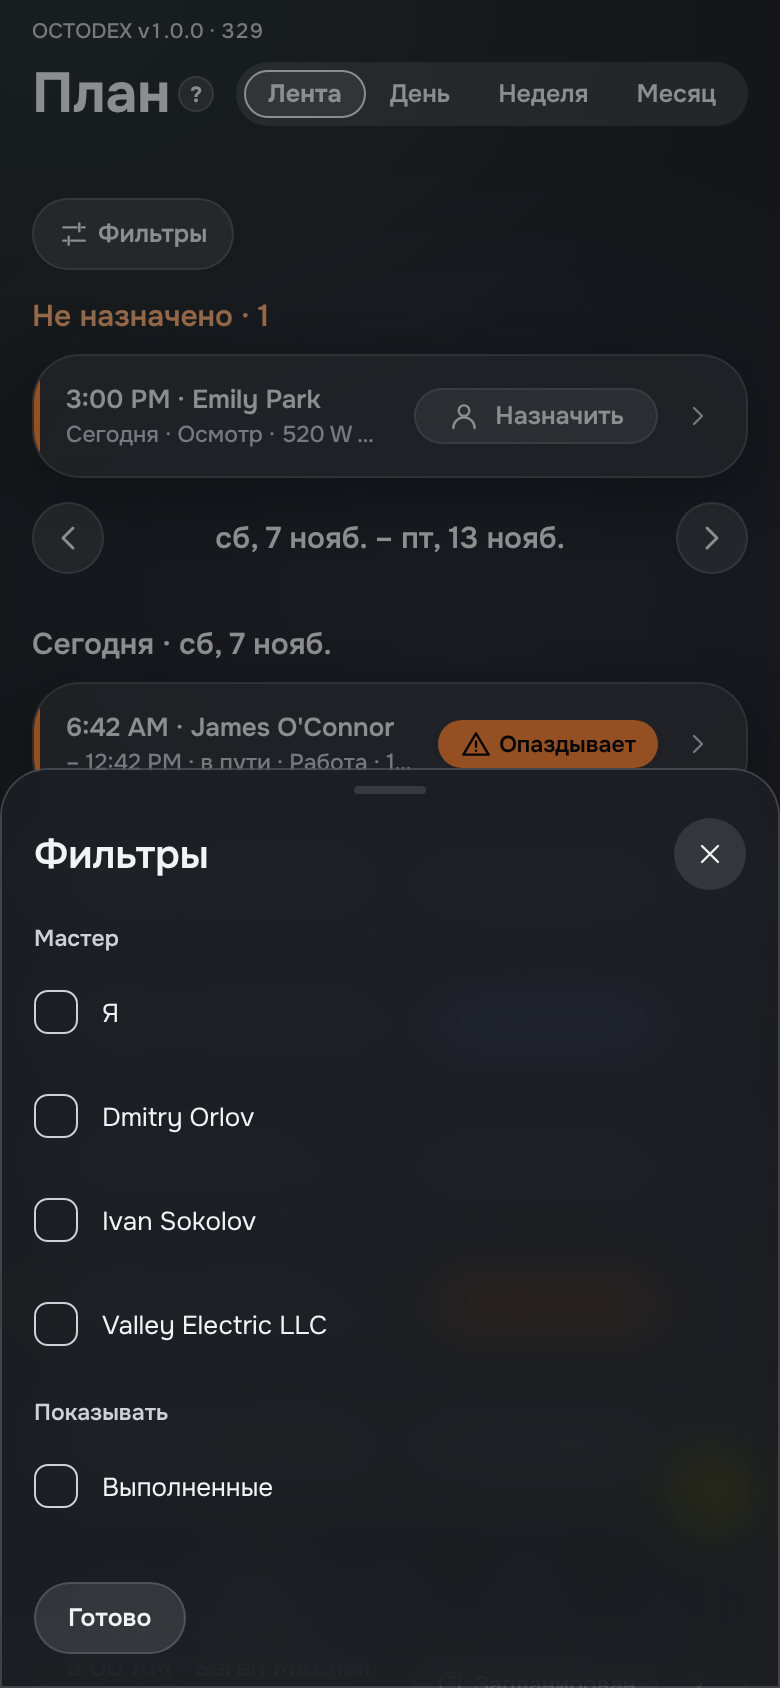
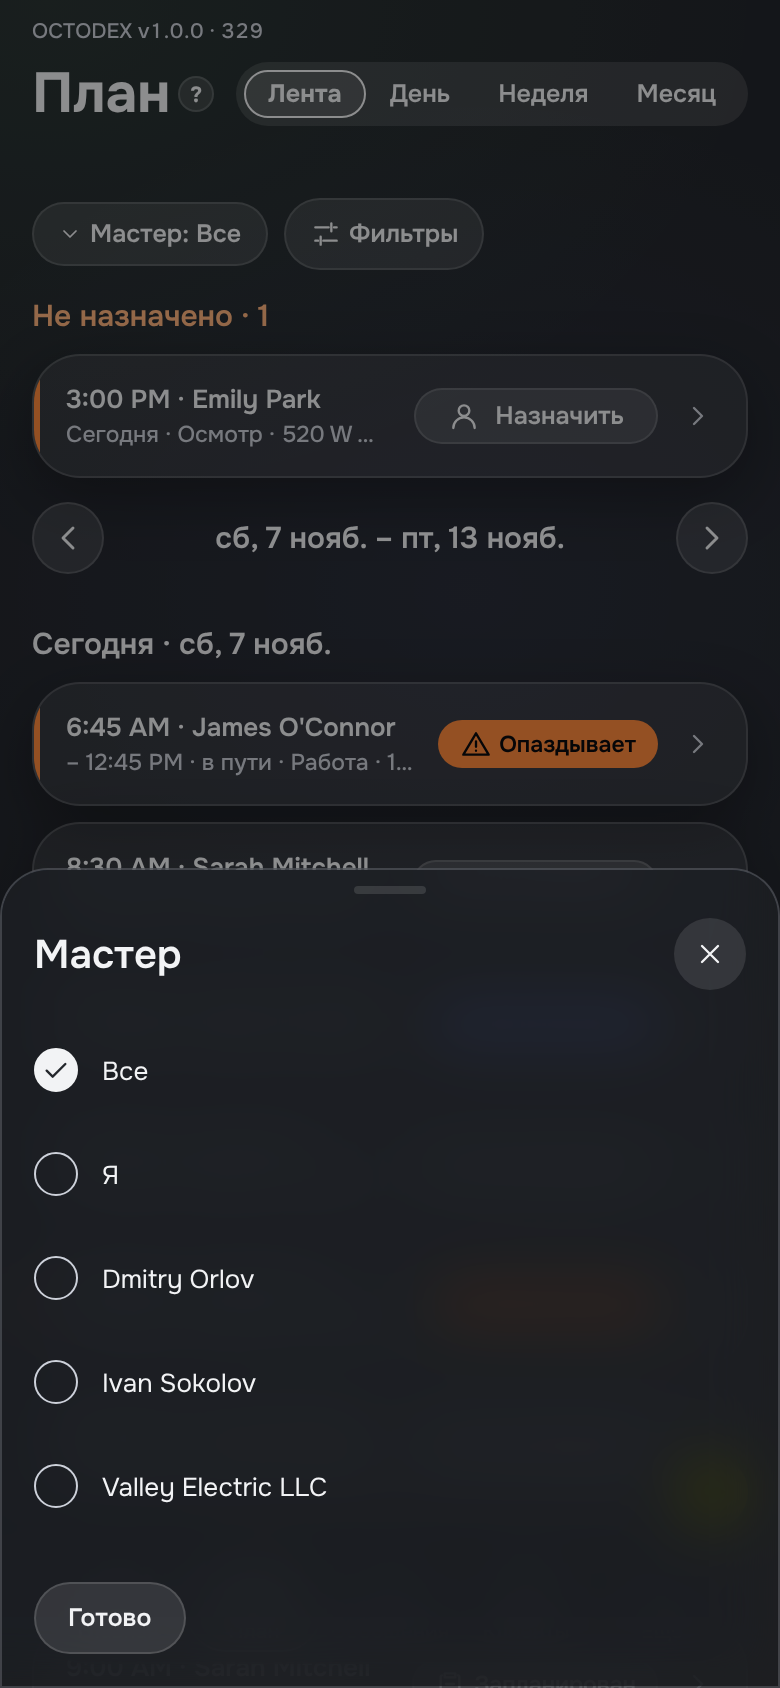
10в PR 6 «План», вариант Б (руководитель 07.11): пилюля «Мастер: Все ▾» сразу открывает людей (один за раз, поиск от 10), «Выполненные» — в «Фильтры»; FilterGroup.pill / single; снимки Б 390
Claude-Session: https://claude.ai/code/session_015CqH6A9FZYh1MEgH5GrZAX

diff --git a/apps/mobile/src/ui/filterBar.tsx b/apps/mobile/src/ui/filterBar.tsx
@@ -47,7 +47,10 @@ export function FilterBar<K extends string>({
   // the search inside the sheet (a long «Мастер»), forgotten when the sheet closes
   const [sheetQ, setSheetQ] = useState("");
   const scroller = useRef<ElementRef<typeof ScrollView>>(null);
-  const shown = groups.filter((g) => g.options.length > 0);
+  const all = groups.filter((g) => g.options.length > 0);
+  // a group with its own pill in the row is not in «Фильтры», its number or the chosen line (the pill says it)
+  const pinned = all.filter((g) => g.pill);
+  const shown = all.filter((g) => !g.pill);
   const active = activeFilterCount(shown);
   const chosen = chosenFilters(shown);
 
@@ -114,6 +117,10 @@ export function FilterBar<K extends string>({
   const sliders = <Icon name="sliders" s={size.iconSm} color={c.ink} />;
   // alone in its row (no search, no lane — «Оплаты»): the button says what it is, on the left
   const alone = !search && !items.length;
+  const pinnedPills = pinned.map((g) =>
+    // framed only off the default (its first option: «Все»)
+    pill(`p:${g.key}`, g.pill!, !g.options[0]?.on, () => setOpen(g.key), { role: "button", label: g.pill! }, <Icon name="chevronDown" s={size.iconXs} color={c.ink} />, `filter-pill-${g.key}`),
+  );
   const filterButton = shown.length ? (
     <Press
       onPress={() => setOpen("*")}
@@ -149,13 +156,15 @@ export function FilterBar<K extends string>({
   ) : null;
 
   const field = search ? <TextField type="search" value={search.value} onChangeText={search.onChange} placeholder={search.placeholder} icon="search" /> : null;
-  const sheetGroups = open === "*" ? shown : shown.filter((g) => g.key === open);
+  const sheetGroups = open === "*" ? shown : all.filter((g) => g.key === open);
+  const closeSheet = () => { setOpen(null); setSheetQ(""); };
 
   return (
     <View style={{ gap: space[2] }} testID="filter-bar">
       {desktop ? (
         <View style={{ flexDirection: "row", alignItems: "center", gap: space[3] }}>
           {field ? <View style={{ width: component.panelW }}>{field}</View> : null}
+          {pinnedPills}
           <View style={{ flex: 1, minWidth: 0 }}>{items.length ? lane : null}</View>
           {shown.map((g) => {
             const n = g.options.filter((o) => o.on).length;
@@ -164,8 +173,9 @@ export function FilterBar<K extends string>({
         </View>
       ) : (
         <>
-          {field || filterButton ? (
-            <View style={{ flexDirection: "row", alignItems: "center", gap: space[2] }}>
+          {field || filterButton || pinnedPills.length ? (
+            <View style={{ flexDirection: "row", alignItems: "center", gap: space[2], flexWrap: "wrap" }}>
+              {pinnedPills}
               {alone ? null : <View style={{ flex: 1, minWidth: 0 }}>{field}</View>}
               {filterButton}
             </View>
@@ -193,7 +203,7 @@ export function FilterBar<K extends string>({
           {onReset ? <Button label={t("fix.filters.reset")} variant="ghost" size="sm" onPress={onReset} /> : null}
         </View>
       ) : null}
-      <Sheet visible={open !== null} onClose={() => { setOpen(null); setSheetQ(""); }} title={open === "*" ? t("fix.filters.title") : (sheetGroups[0]?.title ?? t("fix.filters.title"))}>
+      <Sheet visible={open !== null} onClose={closeSheet} title={open === "*" ? t("fix.filters.title") : (sheetGroups[0]?.title ?? t("fix.filters.title"))}>
         {sheetGroups.map((g) => (
           <View key={g.key} style={{ gap: space[1] }}>
             {open === "*" ? (
@@ -205,13 +215,13 @@ export function FilterBar<K extends string>({
               <TextField type="search" value={sheetQ} onChangeText={setSheetQ} placeholder={t("card.filter.findPerson")} icon="search" />
             ) : null}
             {sheetOptions(g, sheetQ).map((o) => (
-              <FilterRow key={o.key} label={o.label} count={o.count} on={o.on} onToggle={() => g.onToggle(o.key)} />
+              <FilterRow key={o.key} label={o.label} count={o.count} on={o.on} single={g.single} onToggle={() => { g.onToggle(o.key); if (g.single) closeSheet(); }} />
             ))}
           </View>
         ))}
         <View style={{ flexDirection: "row", gap: space[2], marginTop: space[3] }}>
           {active > 0 && onReset ? <Button label={t("fix.filters.reset")} variant="secondary" onPress={onReset} /> : null}
-          <Button label={t("fix.filters.done")} variant="secondary" onPress={() => setOpen(null)} />
+          <Button label={t("fix.filters.done")} variant="secondary" onPress={closeSheet} />
         </View>
       </Sheet>
     </View>
@@ -219,13 +229,14 @@ export function FilterBar<K extends string>({
 }
 
 /** a row in the «Фильтр» sheet: a tag / a source / a person to show; several can be on (rule 12 — choice menus are rows) */
-export function FilterRow({ label, count, on, onToggle }: { label: string; count?: number; on: boolean; onToggle: () => void }) {
+export function FilterRow({ label, count, on, single, onToggle }: { label: string; count?: number; on: boolean; single?: boolean; onToggle: () => void }) {
   const { c } = useTheme();
   const empty = count === 0;
   return (
     <Press
       onPress={onToggle}
-      accessibilityRole="checkbox"
+      // one at a time («Мастер» of the Plan) — a radio, round; several — a checkbox
+      accessibilityRole={single ? "radio" : "checkbox"}
       accessibilityState={{ checked: on }}
       {...({ "aria-checked": on } as object)}
       accessibilityLabel={count === undefined ? label : `${label} · ${count}`}
@@ -235,7 +246,7 @@ export function FilterRow({ label, count, on, onToggle }: { label: string; count
         style={{
           width: component.checkbox.size,
           height: component.checkbox.size,
-          borderRadius: component.checkbox.radius,
+          borderRadius: single ? radius.pill : component.checkbox.radius,
           borderWidth: component.checkbox.border,
           // not yellow: one accent on the screen is the main action (rule 2)
           borderColor: on ? c.ink : c.mut,

diff --git a/apps/mobile/src/app/(tabs)/plan.tsx b/apps/mobile/src/app/(tabs)/plan.tsx
@@ -56,7 +56,8 @@ export default function Plan() {
   const feedDays = useMemo(() => daysFrom(date, addDays(date, FEED_DAYS - 1)), [date]);
   // wave 7б-1: a personal setting, the same on every device and in «Мои настройки → План»
   const [showDone, setShowDone] = usePlanShowDone();
-  // «Мастер»: the office picks one person (or «Я»); a tech sees only his own. «Показывать»: the done ones, not in the Day
+  // «Мастер» (variant Б of the director 07.11): a pill in the row «Мастер: Все ▾» opens the people at once — one at a time,
+  // a search at 10+; a tech sees only his own. «Показывать» → «Выполненные» is in «Фильтры» (not in the Day)
   const techs = db.members.filter((m) => m.roles.includes("tech") && !m.pending && m.id !== db.me).sort((a, b) => a.name.localeCompare(b.name));
   const meTech = db.members.some((m) => m.id === db.me && m.roles.includes("tech"));
   const filterGroups: FilterGroup[] = [
@@ -65,8 +66,14 @@ export default function Plan() {
           key: "people",
           title: t("card.filter.masters"),
           searchable: true,
-          options: [...(meTech ? [{ key: "me", label: t("plan.who.me"), on: whoNow === "me" }] : []), ...techs.map((m) => ({ key: m.id, label: m.name, on: whoNow === m.id }))],
-          onToggle: (k: string) => setWho(whoNow === k ? "all" : k),
+          single: true,
+          pill: `${t("card.filter.masters")}: ${whoNow === "all" ? t("plan.who.all") : whoNow === "me" ? t("plan.who.me") : (techs.find((m) => m.id === whoNow)?.name ?? t("plan.who.all"))}`,
+          options: [
+            { key: "all", label: t("plan.who.all"), on: whoNow === "all" },
+            ...(meTech ? [{ key: "me", label: t("plan.who.me"), on: whoNow === "me" }] : []),
+            ...techs.map((m) => ({ key: m.id, label: m.name, on: whoNow === m.id })),
+          ],
+          onToggle: (k: string) => setWho(k),
         }]
       : []),
     ...(mode !== "day" ? [{ key: "done", title: t("card.filter.show"), options: [{ key: "done", label: t("card.filter.done"), on: showDone }], onToggle: () => setShowDone(!showDone) }] : []),
@@ -110,7 +117,7 @@ export default function Plan() {
     >
       {/* spec 31 §7: «Чей план» and «Показывать выполненные» went to the «Фильтры» sheet — «Мастер» (a search at 10+
           people) and «Показывать»; what is on is a line «Ivan Sokolov ✕» under it */}
-      {filterGroups.length ? <FilterBar<string> items={[]} value="" onChange={() => undefined} groups={filterGroups} onReset={() => { setWho("all"); setShowDone(false); }} /> : null}
+      {filterGroups.length ? <FilterBar<string> items={[]} value="" onChange={() => undefined} groups={filterGroups} onReset={() => setShowDone(false)} /> : null}
       {planner ? <WaitingJobs /> : null}
       {/* «Не назначено» today and tomorrow on top (13 §3.2); the Day keeps its own block of its day (drag from it);
           in the Week it goes under the strip (24 §B: whose plan → the arrows → the strip → «Не назначено» → the days) */}

diff --git a/apps/mobile/src/ui/filterBarRules.ts b/apps/mobile/src/ui/filterBarRules.ts
@@ -34,6 +34,13 @@ export interface FilterGroup {
   onToggle: (key: string) => void;
   /** a search over the rows of the sheet when the group is long (spec 31 §7: «Мастер» of the Plan at 10+ people) */
   searchable?: boolean;
+  /**
+   * its own pill in the row, «Мастер: Все ▾», that opens just this group (spec 31 §7, «План», variant Б of the director
+   * 07.11): a frequent switch the person must see; what is on is said on the pill, not in the chosen line
+   */
+  pill?: string;
+  /** one option at a time: a pick closes the list */
+  single?: boolean;
 }
 
 /** the rows of a group as the sheet shows them: with a search only when the group is searchable and longer than 10 */
